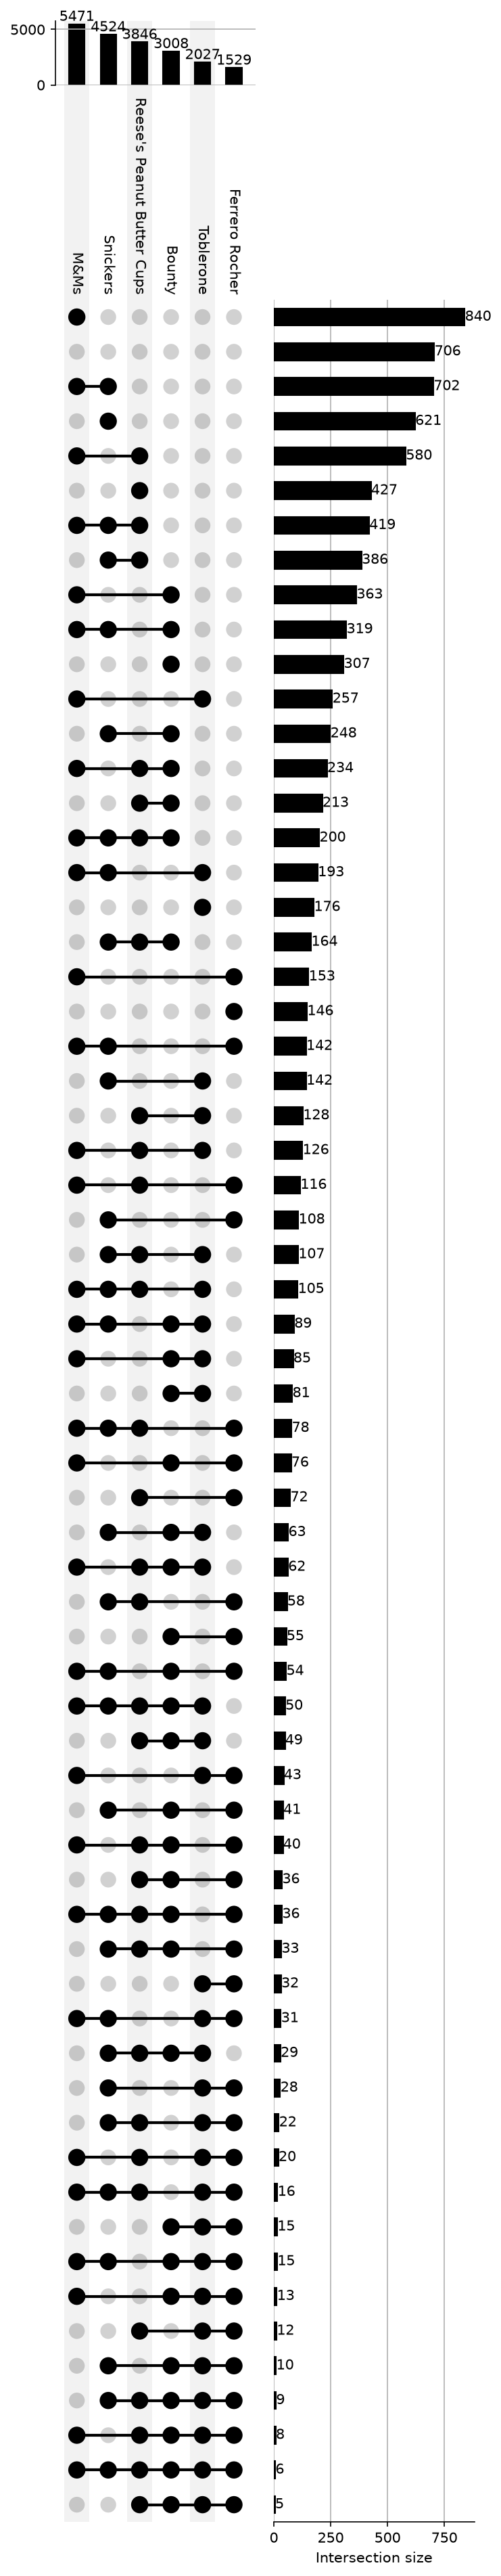
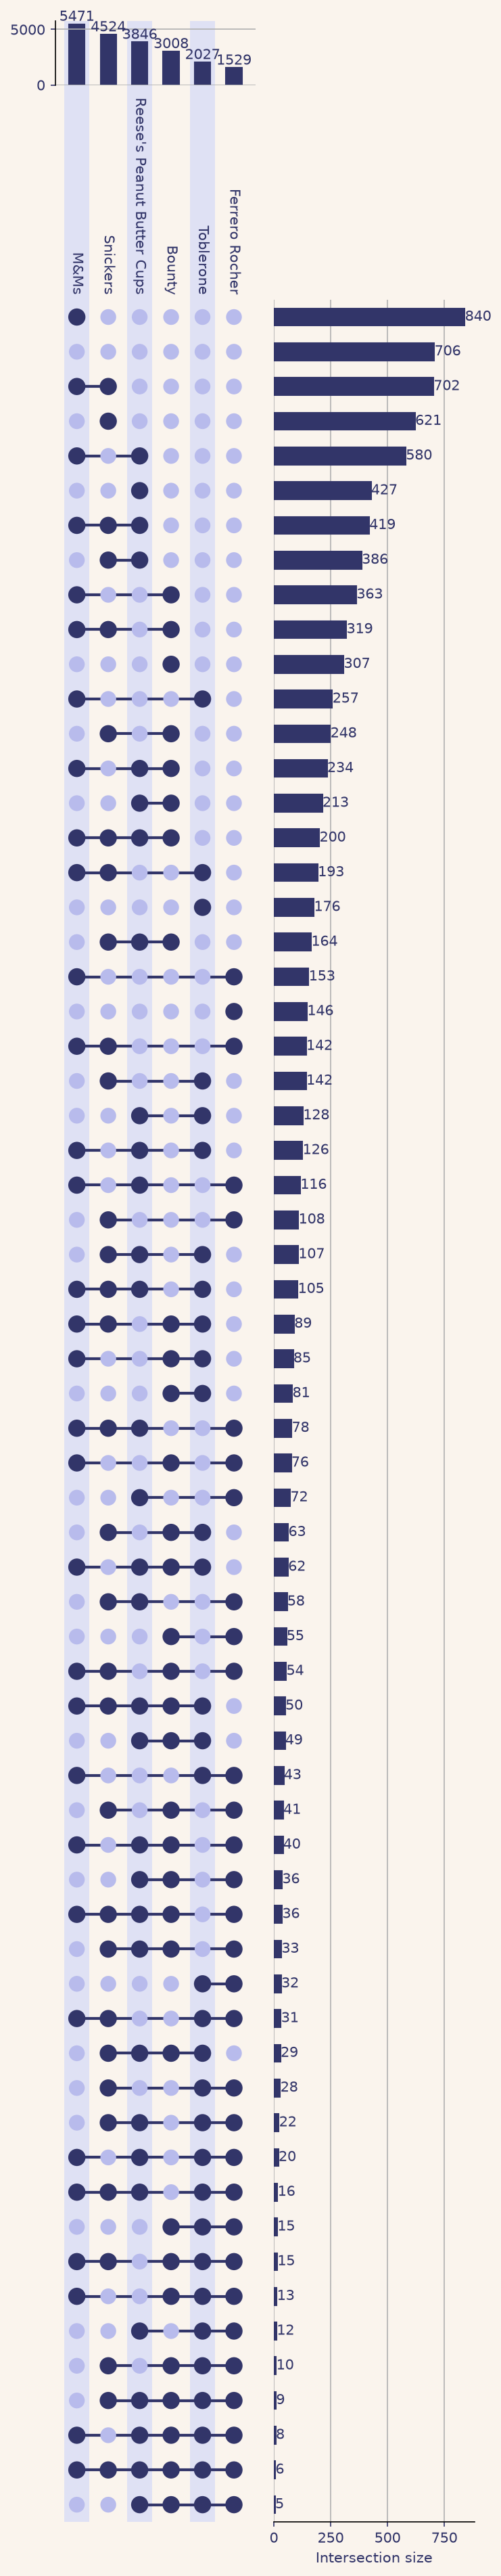
add color palette

Changed region(s): [[0.1242, 0.0, 0.4966, 0.9919], [0.5277, 0.093, 0.9312, 0.9609], [0.6518, 0.9919, 0.8691, 1.0]]

diff --git a/plot_candy_upset.py b/plot_candy_upset.py
@@ -3,11 +3,16 @@
 Reads the boolean indicator CSV produced by generate_candy_data.py, lets
 upsetplot aggregate row counts per category combination, and writes a PNG.
 
+Colors are driven by a JSON palette of hexcodes keyed by name (see palette.json).
+Recognised keys: background, bars, empty_dots, shading, labels. Any key you omit
+falls back to the upsetplot / matplotlib default.
+
 Usage:
-    .venv/bin/python plot_candy_upset.py [--csv PATH] [--out PATH]
+    .venv/bin/python plot_candy_upset.py [--csv PATH] [--out PATH] [--palette PATH]
 """
 
 import argparse
+import json
 
 import matplotlib
 
@@ -21,11 +26,54 @@ from upsetplot import UpSet, from_indicators
 NON_CATEGORY_COLUMNS = ["Purchase reference"]
 
 
+def load_palette(path):
+    """Read a JSON palette mapping names to matplotlib colors (e.g. hexcodes).
+
+    Returns an empty dict (use built-in defaults) if the file is absent.
+    """
+    try:
+        with open(path) as f:
+            return json.load(f)
+    except FileNotFoundError:
+        print(f"Palette {path} not found; using default colors")
+        return {}
+
+
+def apply_palette(palette):
+    """Apply background/label colors via rcParams; return UpSet color kwargs.
+
+    Only keys present in the palette take effect; anything omitted falls back to
+    upsetplot / matplotlib defaults. rcParams must be set before the plot is
+    built, so call this before constructing/plotting the UpSet.
+    """
+    if "background" in palette:
+        matplotlib.rcParams["axes.facecolor"] = palette["background"]
+        matplotlib.rcParams["figure.facecolor"] = palette["background"]
+    if "labels" in palette:
+        for key in ("text.color", "axes.labelcolor", "xtick.color", "ytick.color"):
+            matplotlib.rcParams[key] = palette["labels"]
+
+    # facecolor drives both the bars and the active ("occupied") matrix dots.
+    kwargs = {}
+    if "bars" in palette:
+        kwargs["facecolor"] = palette["bars"]
+    if "empty_dots" in palette:
+        kwargs["other_dots_color"] = palette["empty_dots"]
+    if "shading" in palette:
+        kwargs["shading_color"] = palette["shading"]
+    return kwargs
+
+
 def main() -> None:
     parser = argparse.ArgumentParser(description=__doc__)
     parser.add_argument("--csv", default="candy_baskets.csv", help="input CSV path")
     parser.add_argument("--out", default="candy_upset.png", help="output PNG path")
+    parser.add_argument(
+        "--palette", default="palette.json", help="JSON color palette path"
+    )
     args = parser.parse_args()
+
+    color_kwargs = apply_palette(load_palette(args.palette))
 
     df = pd.read_csv(args.csv)
 
@@ -48,6 +96,7 @@ def main() -> None:
         subset_size="count",
         sort_by="cardinality",
         show_counts=True,
+        **color_kwargs,
     )
     upset.plot()
 